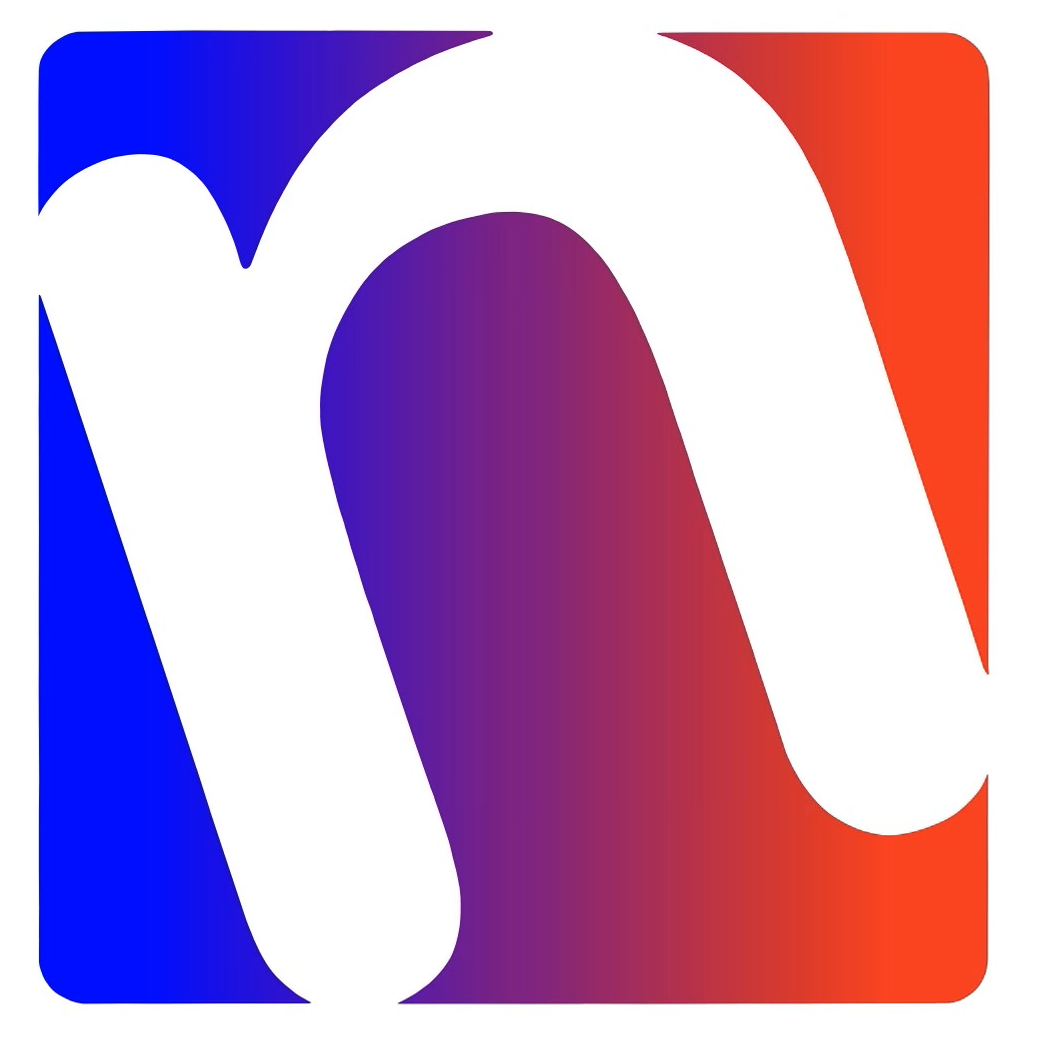
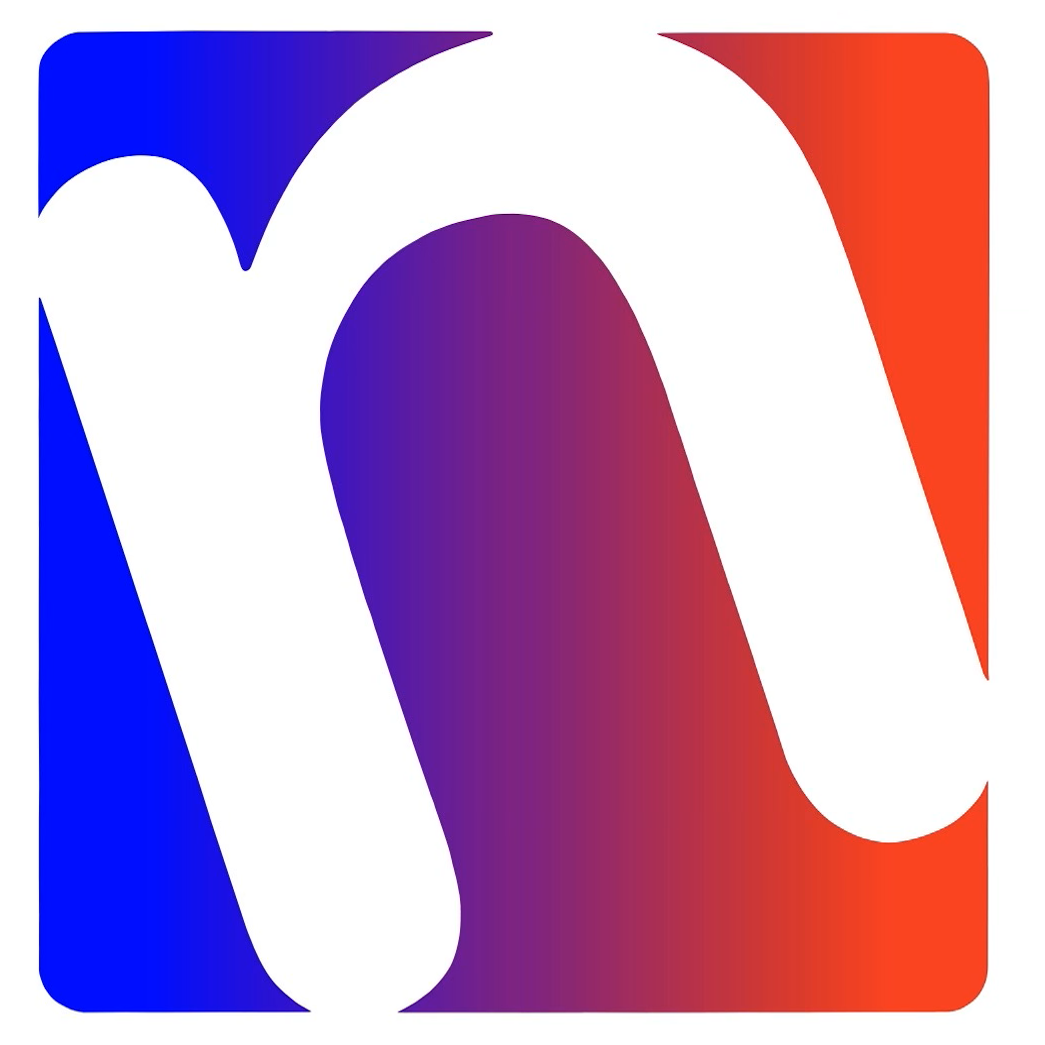
minor picture adjustments and testing

diff --git a/frontend/public/index.html b/frontend/public/index.html
@@ -9,7 +9,7 @@
       name="description"
       content="Web site created using create-react-app"
     />
-    <link rel="apple-touch-icon" href="%PUBLIC_URL%/assets/images/N_Icon3.png" />
+    <link rel="apple-touch-icon" href="%PUBLIC_URL%/assets/images/image4.png" />
     <!--
       manifest.json provides metadata used when your web app is installed on a
       user's mobile device or desktop. See https://developers.google.com/web/fundamentals/web-app-manifest/
